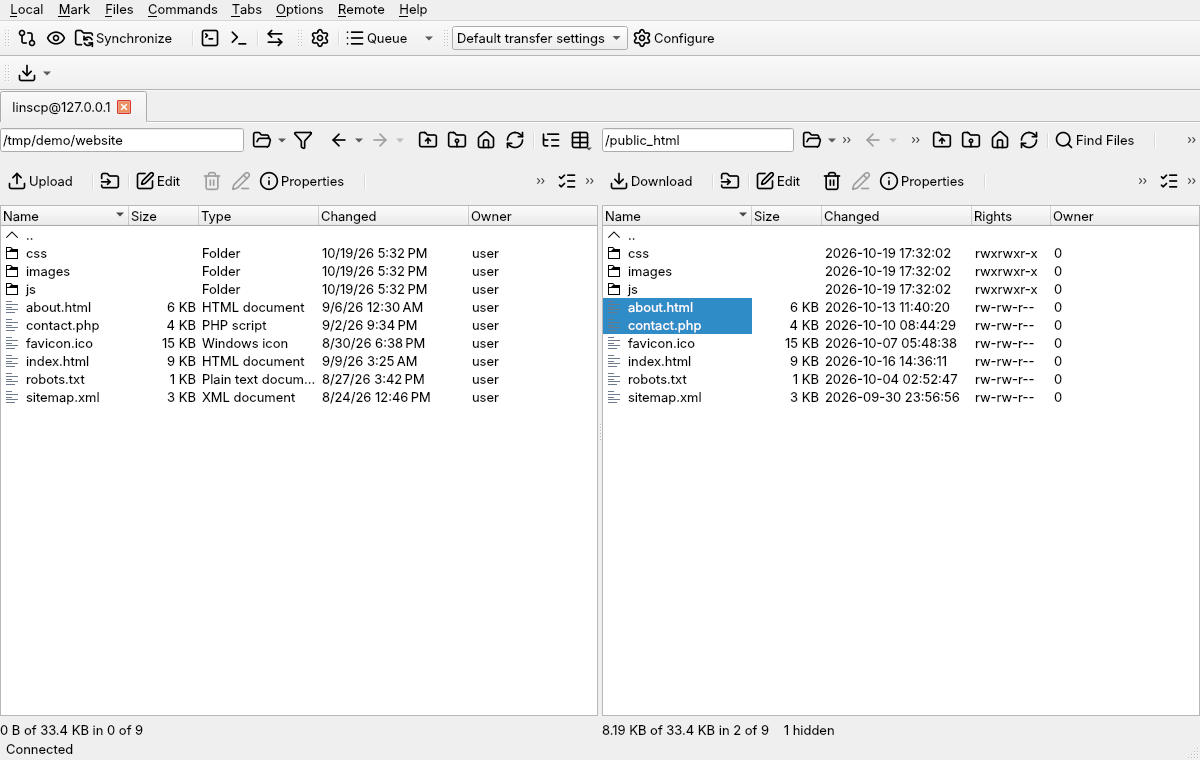
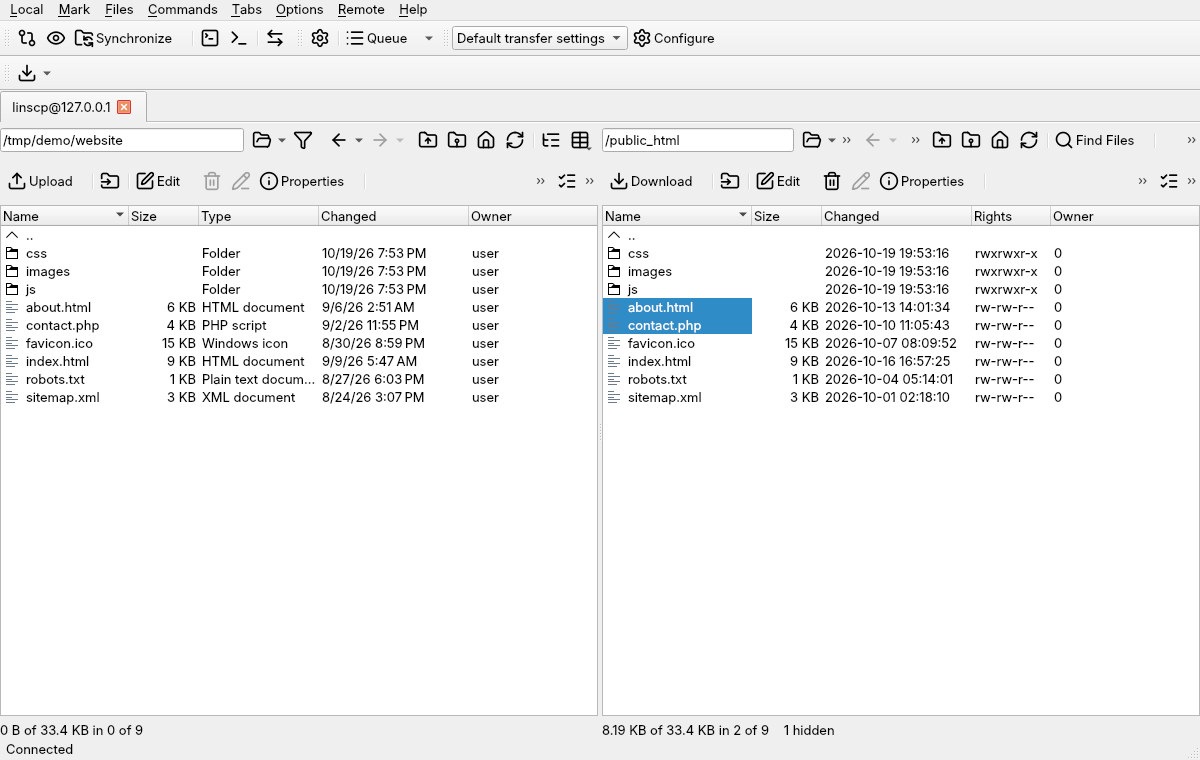
docs: rewrite README and add a DEVELOPERS build guide

Changed region(s): [[0.7092, 0.3329, 0.8017, 0.5447], [0.3083, 0.3329, 0.37, 0.5447]]

diff --git a/README.md b/README.md
@@ -1,190 +1,77 @@
 # linscp
 
-A Qt port of [WinSCP](https://winscp.net/), targeting **Linux and Windows from
-one codebase**.
+**A free file manager for moving files between your computer and remote
+servers, with the same interface on Linux and Windows.**
 
-> **Status: pre-release (0.6.1).** WinSCP's core runs unmodified under a Qt 6
-> shell on Linux and Windows: sites, the Commander layout, transfers and the
-> queue, synchronization, the editor, translations. See
-> [doc/qt/TRACKER.md](doc/qt/TRACKER.md) for what is done and what is left.
-> Not affiliated with or endorsed by the WinSCP project.
+linscp shows your local files and a server's files side by side, so you can
+copy, sync and edit them as easily as on your own disk. It runs on 64-bit Linux
+and on Windows 10 and 11 (x64). Settings, sites and scripts work the same on
+both.
 
-> [!WARNING]
-> **Back up your WinSCP configuration before running linscp.** linscp reads and
-> writes the same settings store as WinSCP — on Windows the same registry key
-> (`HKCU\Software\Martin Prikryl\WinSCP 2`), on Linux `WinSCP.ini` in the XDG
-> config directory — so your sites and settings are shared between the two
-> programs, and linscp may rewrite them. Export your sites (or copy the registry
-> key / `WinSCP.ini`) first. This is a pre-release.
+Website and manual: **<https://linscp.org>** · Created and maintained by
+[Eduardo Correia](https://github.com/99ecarvalho)
 
-## Screenshots
+> **Pre-release (0.6.1).** Feedback and bug reports are very welcome.
 
-The Commander interface: local files on the left, the remote server on the right.
+![The Commander interface: local files on the left, the server on the right](doc/screenshots/commander.png)
 
-![The Commander interface](doc/screenshots/commander.png)
-
-The Explorer interface: only the remote panel, with the folder tree beside it.
-
-![The Explorer interface](doc/screenshots/explorer.png)
-
-| The Site Manager | Preferences, the Panels page |
+| Explorer interface | Site Manager |
 |---|---|
-| ![The Site Manager](doc/screenshots/site-manager.png) | ![Preferences, the Panels page](doc/screenshots/preferences.png) |
-| Preferences, the Transfer page | Generate session URL / code |
-| ![Preferences, the Transfer page](doc/screenshots/preferences-transfer.png) | ![Generate session URL and code](doc/screenshots/generate-url.png) |
+| ![The Explorer interface](doc/screenshots/explorer.png) | ![The Site Manager](doc/screenshots/site-manager.png) |
+| **Preferences** | **Transfer presets** |
+| ![Preferences, the Panels page](doc/screenshots/preferences.png) | ![Preferences, the Transfer page](doc/screenshots/preferences-transfer.png) |
+| **Session URLs and script code** | |
+| ![Generate session URL and code](doc/screenshots/generate-url.png) | |
 
-These were taken on Linux with the light theme. To retake them, run
-`port/tests/run_qt_session.py build/linux/port/tests/test_qt_gui screenshots /ini=nul {port} {tmp}/local $PWD/doc/screenshots -platform offscreen`.
+## Features
 
-## Why
+- **Protocols:** SFTP, SCP, FTP, FTPS (explicit and implicit TLS), WebDAV
+  and Amazon S3 compatible storage.
+- **Two layouts:** Commander (local and remote panels side by side) or
+  Explorer (the server only, with a folder tree).
+- **Site Manager:** saved sites in folders, colours and notes, import from
+  other clients, session URLs.
+- **Transfers:** drag and drop, a background queue, resume, speed limits,
+  transfer presets and text/binary modes.
+- **Synchronization:** compare folders, sync in either direction, or keep a
+  remote folder up to date as you work.
+- **Remote editing:** open a server file in the built-in editor or your own;
+  every save is uploaded.
+- **Automation:** `linscp-cli`, a console client for scripts, cron jobs and
+  CI, plus generated script code for any session.
+- **Security:** SSH keys and agents, host key and certificate checks, a
+  master password for saved passwords, client-side file encryption (SFTP).
+- **53 interface languages**, and a portable mode that keeps settings beside
+  the program.
 
-WinSCP's protocol core — SFTP, SCP, FTP/FTPS, WebDAV and S3 — is mature, widely
-trusted, and GPL. Its UI is Delphi VCL, and it builds only with Embarcadero
-C++Builder on Windows. This project reuses the core, replaces the UI with Qt 6,
-and drops C++Builder from the toolchain.
+## Download
 
-## How upstream stays trackable
-
-**This repository contains no copy of WinSCP's source.** Upstream is a pristine,
-pinned submodule at `3rd-party/winscp`. A committed transformation script rewrites
-it into a buildable tree at build time, so the diff against upstream is
-structurally empty and new WinSCP releases are absorbed by re-running the script
-rather than by resolving conflicts.
-
-The transformation is deliberately **dual-target**: its output compiles both under
-clang (Linux and Windows) and under C++Builder with the original VCL, so the
-existing Windows build is never broken by the port.
-
-## Layout
-
-```
-3rd-party/winscp   pinned upstream submodule, never modified
-3rd-party/openssl  pinned OpenSSL release (the version WinSCP vendors)
-3rd-party/putty    pinned PuTTY release (the version WinSCP vendors), for
-                   the Unix platform code WinSCP's copy does not carry
-port/patches       reviewed patch series applied to the generated tree
-port/shim          VCL runtime replacement
-port/platform      POSIX and Win32 compatibility
-port/frontend      headless frontend interface and linscp-cli, the scripting client
-port/qt            Qt 6 frontend (the linscp program)
-port/packaging     install rules and the .deb, AppImage, Flatpak and
-                   Windows installer definitions
-port/tests         unit, protocol, golden and GUI tests (ctest)
-port/tools         transformation, verification, fetch and packaging scripts
-doc/qt/            plan, tasks, tracker, estimates
-```
+Get the newest release at **<https://linscp.org/download/>**: `.deb`,
+AppImage and Flatpak for Linux, an installer and a portable zip for Windows.
+Older versions are on [GitHub Releases](https://github.com/99ecarvalho/linscp/releases).
 
 ## Documentation
 
-Start with [doc/qt/README.md](doc/qt/README.md), or read the rendered
-[doc/qt/plan.html](doc/qt/plan.html). [doc/qt/TRACKER.md](doc/qt/TRACKER.md) is
-the live status.
+The manual is at **<https://linscp.org/manual/>**: installing, connecting,
+transfers, synchronization, scripting and security.
 
-## Building
+## Support
 
-Requires **clang** (GCC is not supported: it has no `__declspec(property)`
-equivalent, which the VCL property shim depends on), CMake, Ninja, Python 3,
-Perl and make (for OpenSSL's `Configure`), and Qt 6 (`qt6-base-dev`,
-`qt6-svg-dev`, `qt6-l10n-tools` on Debian).
+- Questions: [GitHub Discussions](https://github.com/99ecarvalho/linscp/discussions)
+- Bugs: [GitHub Issues](https://github.com/99ecarvalho/linscp/issues)
+- Security problems: report privately, see [SECURITY.md](SECURITY.md) or
+  <https://linscp.org/security/>
 
-```sh
-git clone https://github.com/99ecarvalho/linscp
-cd linscp
-# Not --recurse-submodules: OpenSSL's own submodules are test suites.
-git submodule update --init --depth 1
-```
+linscp is free and community-funded. If it helps you,
+[sponsor its development](https://linscp.org/donate/).
 
-### Linux
+## Contributing
 
-```sh
-cmake -S . -B build/linux -G Ninja -DCMAKE_C_COMPILER=clang -DCMAKE_CXX_COMPILER=clang++
-cmake --build build/linux --target linscp linscp-cli
-build/linux/port/qt/linscp
-ctest --test-dir build/linux        # the test suite
-```
-
-The suite starts its own throwaway servers on loopback (rclone, sshd, and
-FTP and S3 servers written for it). With docker or podman, the tests labelled
-`real-servers` also run against real ones, built from
-[port/tests/servers/](port/tests/servers/) into one image the first time:
-OpenSSH, vsftpd (FTP, explicit and implicit FTPS), Apache's mod_dav (WebDAV,
-with locking) and Versity's S3 gateway. Without either they are skipped.
-
-```sh
-ctest --test-dir build/linux -L real-servers
-```
-
-### Windows (cross-compiled from Linux)
-
-The toolchain and Qt are fetched pinned
-([doc/qt/windows-toolchain.md](doc/qt/windows-toolchain.md)); the tests run
-under Wine.
-
-```sh
-python3 port/tools/fetch_llvm_mingw.py --dest build/tools
-python3 port/tools/fetch_msys2_qt.py --dest build/tools/msys2-qt
-cmake -S . -B build/win -G Ninja -DCMAKE_TOOLCHAIN_FILE=cmake/toolchain-llvm-mingw.cmake
-cmake --build build/win --target deploy   # a folder that runs on Windows: build/win/deploy
-```
-
-### Packages
-
-Configure a release build (`LINSCP_RELEASE=ON` drops the "Dev Build"
-marking), then build the package's target; the packages land in
-`<build>/packages`. CI builds all four on every run, as artifacts.
-
-```sh
-cmake -S . -B build/release -G Ninja -DCMAKE_BUILD_TYPE=Release -DLINSCP_RELEASE=ON \
-      -DBUILD_TESTING=OFF -DCMAKE_C_COMPILER=clang -DCMAKE_CXX_COMPILER=clang++
-cmake --build build/release --target package-deb        # linscp_<version>_amd64.deb
-cmake --build build/release --target package-appimage   # linscp-<version>-x86_64.AppImage
-```
-
-- **.deb**: built with CPack; its dependencies are read from the binaries, so
-  it is for the distribution it is built on. Needs `dpkg-dev`.
-- **AppImage**: linuxdeploy and appimagetool are fetched pinned
-  ([port/packaging/appimage/tools.lock](port/packaging/appimage/tools.lock)).
-  Needs `file`, `qt6-svg-plugins` and `qt6-wayland`. It runs on distributions
-  whose glibc is at least the build machine's.
-- **Flatpak**: built from the checkout with `flatpak-builder` on KDE's
-  runtime; the runtime, SDK and LLVM extension are installed for the user
-  from Flathub when missing.
-
-  ```sh
-  python3 port/tools/build_flatpak.py      # build/flatpak/packages/linscp-<version>.flatpak
-  flatpak install --user build/flatpak/packages/linscp-<version>.flatpak
-  ```
-
-- **Windows installer**: Inno Setup 6, fetched pinned and run under Wine
-  (`wine`, with `wine32` for its 32-bit compiler), over the deploy folder:
-
-  ```sh
-  cmake -S . -B build/win-release -G Ninja -DCMAKE_BUILD_TYPE=Release -DLINSCP_RELEASE=ON \
-        -DBUILD_TESTING=OFF -DCMAKE_TOOLCHAIN_FILE=cmake/toolchain-llvm-mingw.cmake
-  cmake --build build/win-release --target installer      # linscp-<version>-setup.exe
-  ```
-
-  It installs for all users or only the current one, and offers a desktop
-  icon, the Send To upload shortcut, the URL handler and the search path, as
-  WinSCP's installer does.
-
-  With the .NET SDK at `build/win-release/tools/dotnet`
-  (`python3 port/tools/fetch_dotnet.py --dest build/win-release/tools/dotnet`;
-  or `-DLINSCP_HOST_DOTNET=<dotnet>`), the Windows packages also carry
-  WinSCP's .NET assembly in a `dotnet` folder, with `linscp-cli` as the
-  `WinSCP.exe` it starts: WinSCP's own PowerShell extensions (Preferences >
-  Commands > Add Extension) then run with linscp.
-
-- **Portable**, as WinSCP's portable mode: the configuration is kept in an
-  INI file beside the program instead of the user's.
-  - Windows: `cmake --build build/win-release --target package-portable`
-    gives `linscp-<version>-portable.zip`, the program and an empty
-    `linscp.ini` (which `linscp-cli` shares).
-  - Linux: the AppImage, with a `WinSCP.ini` (empty to start with) beside
-    the `.AppImage` file.
+Building, testing and packaging are described in [DEVELOPERS.md](DEVELOPERS.md).
 
 ## Licence
 
-GPL v3 — see [LICENSE](LICENSE). WinSCP is GPL v3; PuTTY and the FileZilla FTP
-engine carry their own compatible licences. See
-[3rd-party/winscp/license.txt](3rd-party/winscp/license.txt).
+linscp is free software under the GNU GPL, version 3: see [LICENSE](LICENSE).
+Its transfer engine comes from WinSCP; linscp is an independent project, not
+affiliated with or endorsed by the WinSCP project. Credits for all the
+components linscp uses are at <https://linscp.org/manual/about/license-and-credits/>.

diff --git a/DEVELOPERS.md b/DEVELOPERS.md
@@ -1,0 +1,142 @@
+# Developing linscp
+
+How to build, test and package linscp. For using it, see the manual at
+<https://linscp.org/manual/>.
+
+## Requirements
+
+- **clang**. GCC is not supported: it has no `__declspec(property)`
+  equivalent, which the VCL property shim depends on.
+- CMake, Ninja, Python 3, Perl and make (for OpenSSL's `Configure`).
+- Qt 6: `qt6-base-dev`, `qt6-svg-dev` and `qt6-l10n-tools` on Debian.
+
+```sh
+git clone https://github.com/99ecarvalho/linscp
+cd linscp
+# Not --recurse-submodules: OpenSSL's own submodules are test suites.
+git submodule update --init --depth 1
+```
+
+## Linux
+
+```sh
+cmake -S . -B build/linux -G Ninja -DCMAKE_C_COMPILER=clang -DCMAKE_CXX_COMPILER=clang++
+cmake --build build/linux --target linscp linscp-cli
+build/linux/port/qt/linscp
+ctest --test-dir build/linux        # the test suite
+```
+
+The suite starts its own throwaway servers on loopback (rclone, sshd, and FTP
+and S3 servers written for it). With docker or podman, the tests labelled
+`real-servers` also run against real servers built from
+[port/tests/servers/](port/tests/servers/) into one image the first time:
+OpenSSH, vsftpd (FTP, explicit and implicit FTPS), Apache's mod_dav (WebDAV,
+with locking) and Versity's S3 gateway. Without either, they are skipped.
+
+```sh
+ctest --test-dir build/linux -L real-servers
+```
+
+## Windows (cross-compiled from Linux)
+
+The toolchain and Qt are fetched pinned
+([doc/qt/windows-toolchain.md](doc/qt/windows-toolchain.md)); the tests run
+under Wine.
+
+```sh
+python3 port/tools/fetch_llvm_mingw.py --dest build/tools
+python3 port/tools/fetch_msys2_qt.py --dest build/tools/msys2-qt
+cmake -S . -B build/win -G Ninja -DCMAKE_TOOLCHAIN_FILE=cmake/toolchain-llvm-mingw.cmake
+cmake --build build/win --target deploy   # a folder that runs on Windows: build/win/deploy
+```
+
+## Packages
+
+Configure a release build (`LINSCP_RELEASE=ON` drops the "Dev Build"
+marking), then build the package's target. Packages land in
+`<build>/packages`. CI builds all of them on every run, as artifacts.
+
+```sh
+cmake -S . -B build/release -G Ninja -DCMAKE_BUILD_TYPE=Release -DLINSCP_RELEASE=ON \
+      -DBUILD_TESTING=OFF -DCMAKE_C_COMPILER=clang -DCMAKE_CXX_COMPILER=clang++
+cmake --build build/release --target package-deb        # linscp_<version>_amd64.deb
+cmake --build build/release --target package-appimage   # linscp-<version>-x86_64.AppImage
+```
+
+- **.deb**: built with CPack. Its dependencies are read from the binaries, so
+  it targets the distribution it is built on. Needs `dpkg-dev`.
+- **AppImage**: linuxdeploy and appimagetool are fetched pinned
+  ([port/packaging/appimage/tools.lock](port/packaging/appimage/tools.lock)).
+  Needs `file`, `qt6-svg-plugins` and `qt6-wayland`. It runs on distributions
+  whose glibc is at least the build machine's.
+- **Flatpak**: built from the checkout with `flatpak-builder` on KDE's
+  runtime. The runtime, SDK and LLVM extension are installed for the user
+  from Flathub when missing.
+
+  ```sh
+  python3 port/tools/build_flatpak.py      # build/flatpak/packages/linscp-<version>.flatpak
+  flatpak install --user build/flatpak/packages/linscp-<version>.flatpak
+  ```
+
+- **Windows installer**: Inno Setup 6, fetched pinned and run under Wine
+  (`wine`, with `wine32` for its 32-bit compiler), over the deploy folder.
+
+  ```sh
+  cmake -S . -B build/win-release -G Ninja -DCMAKE_BUILD_TYPE=Release -DLINSCP_RELEASE=ON \
+        -DBUILD_TESTING=OFF -DCMAKE_TOOLCHAIN_FILE=cmake/toolchain-llvm-mingw.cmake
+  cmake --build build/win-release --target installer      # linscp-<version>-setup.exe
+  ```
+
+  It installs for all users or only the current one, and offers a desktop
+  icon, the Send To upload shortcut, the URL handler and the search path.
+
+- **.NET assembly**: with a .NET SDK at `<build>/tools/dotnet`
+  (`python3 port/tools/fetch_dotnet.py --dest <build>/tools/dotnet`, or
+  `-DLINSCP_HOST_DOTNET=<dotnet>`), the packages also carry the .NET assembly
+  in a `dotnet` folder, with `linscp-cli` as the `WinSCP.exe` it starts.
+
+- **Portable**: the configuration is kept in an INI file beside the program.
+  - Windows: `cmake --build build/win-release --target package-portable`
+    gives `linscp-<version>-portable.zip`, the program and an empty
+    `linscp.ini` (which `linscp-cli` shares).
+  - Linux: the AppImage, with a `WinSCP.ini` (empty to start with) beside
+    the `.AppImage` file.
+
+## Screenshots
+
+The screenshots in [doc/screenshots/](doc/screenshots/) are taken from a demo
+session against a local test server, with the light theme:
+
+```sh
+port/tests/run_qt_session.py build/linux/port/tests/test_qt_gui screenshots \
+  /ini=nul {port} {tmp}/local $PWD/doc/screenshots -platform offscreen
+```
+
+## How the source is organised
+
+The upstream core is a pristine, pinned submodule; this repository holds no
+modified copy of it. At build time `port/tools/transform.py` rewrites it into
+a buildable tree, and the reviewed patches in `port/patches/` are applied on
+top. The transformed code compiles both under clang and under C++Builder, so
+changes stay mergeable upstream.
+
+```
+3rd-party/winscp   pinned upstream submodule, never modified
+3rd-party/openssl  pinned OpenSSL release
+3rd-party/putty    pinned PuTTY release, for the Unix platform code
+port/patches       reviewed patch series applied to the generated tree
+port/shim          VCL runtime replacement
+port/platform      POSIX and Win32 compatibility
+port/frontend      headless frontend interface and linscp-cli
+port/qt            Qt 6 frontend (the linscp program)
+port/packaging     install rules and package definitions
+port/tests         unit, protocol, golden and GUI tests (ctest)
+port/tools         transformation, verification, fetch and packaging scripts
+doc/qt/            plan, tasks and design records
+```
+
+## Website and manual
+
+The website and manual live in the
+[linscp-website](https://github.com/99ecarvalho/linscp-website) submodule at
+`linscp-website/`. Its `WRITING.md` explains how to write manual pages.
